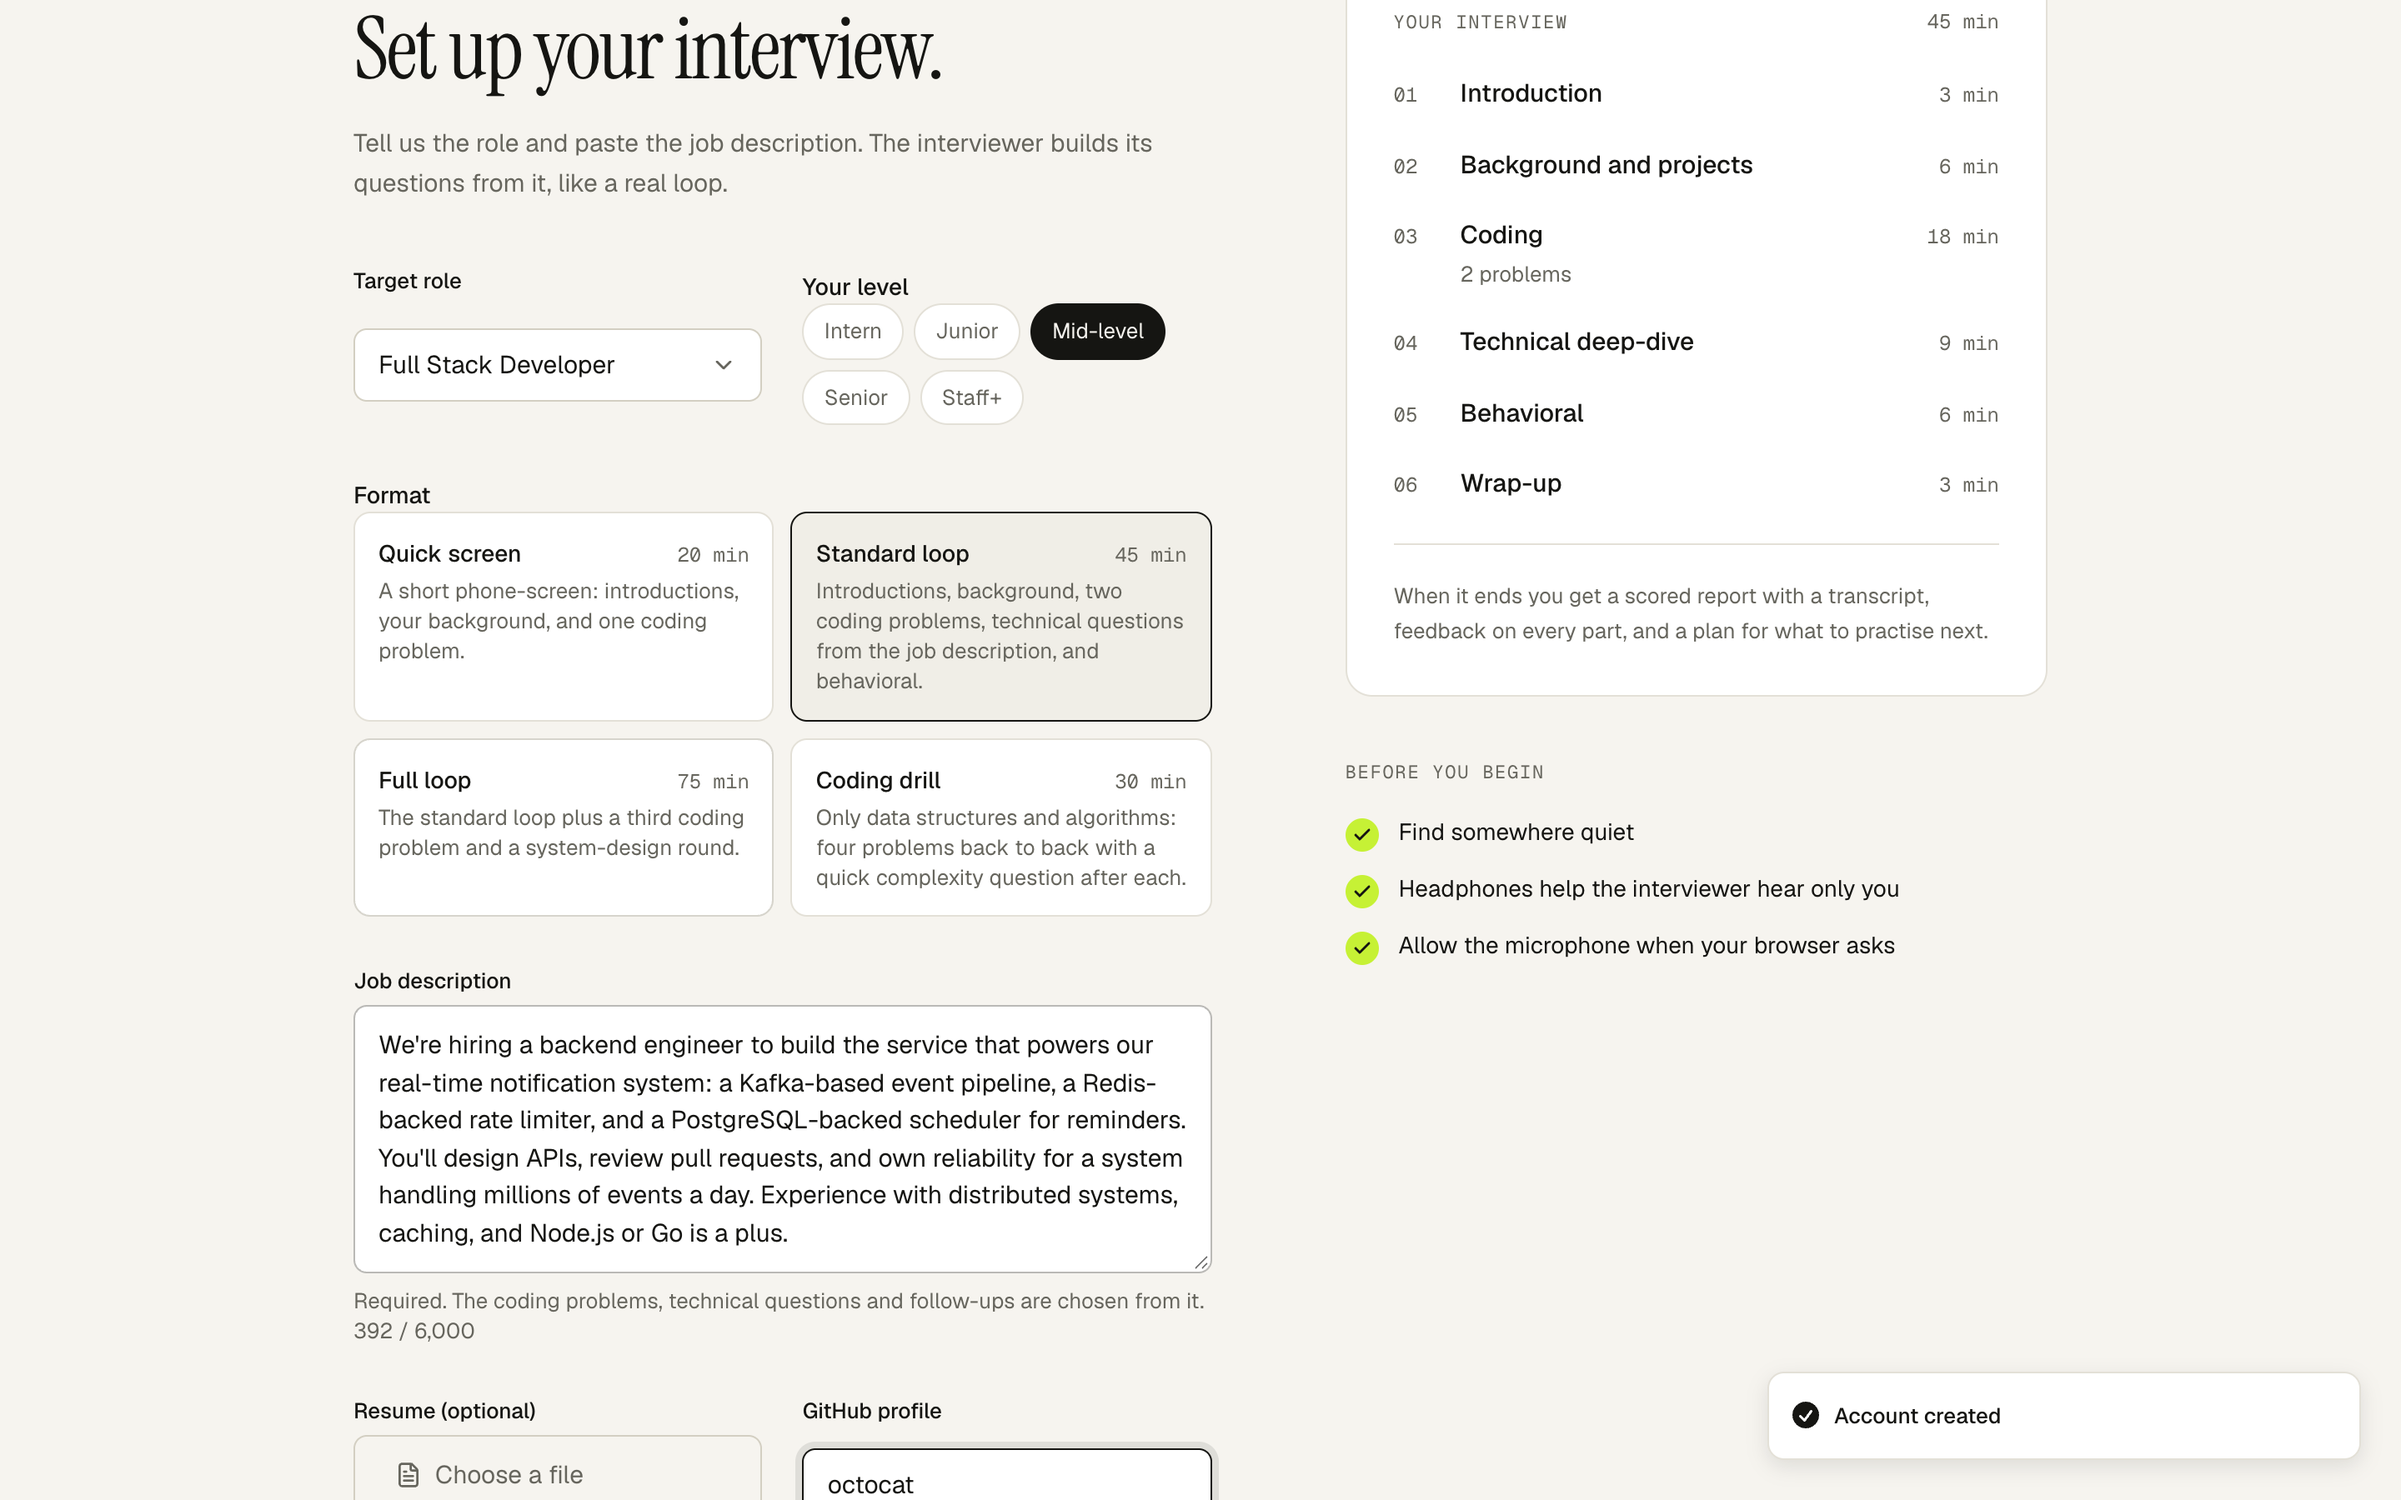
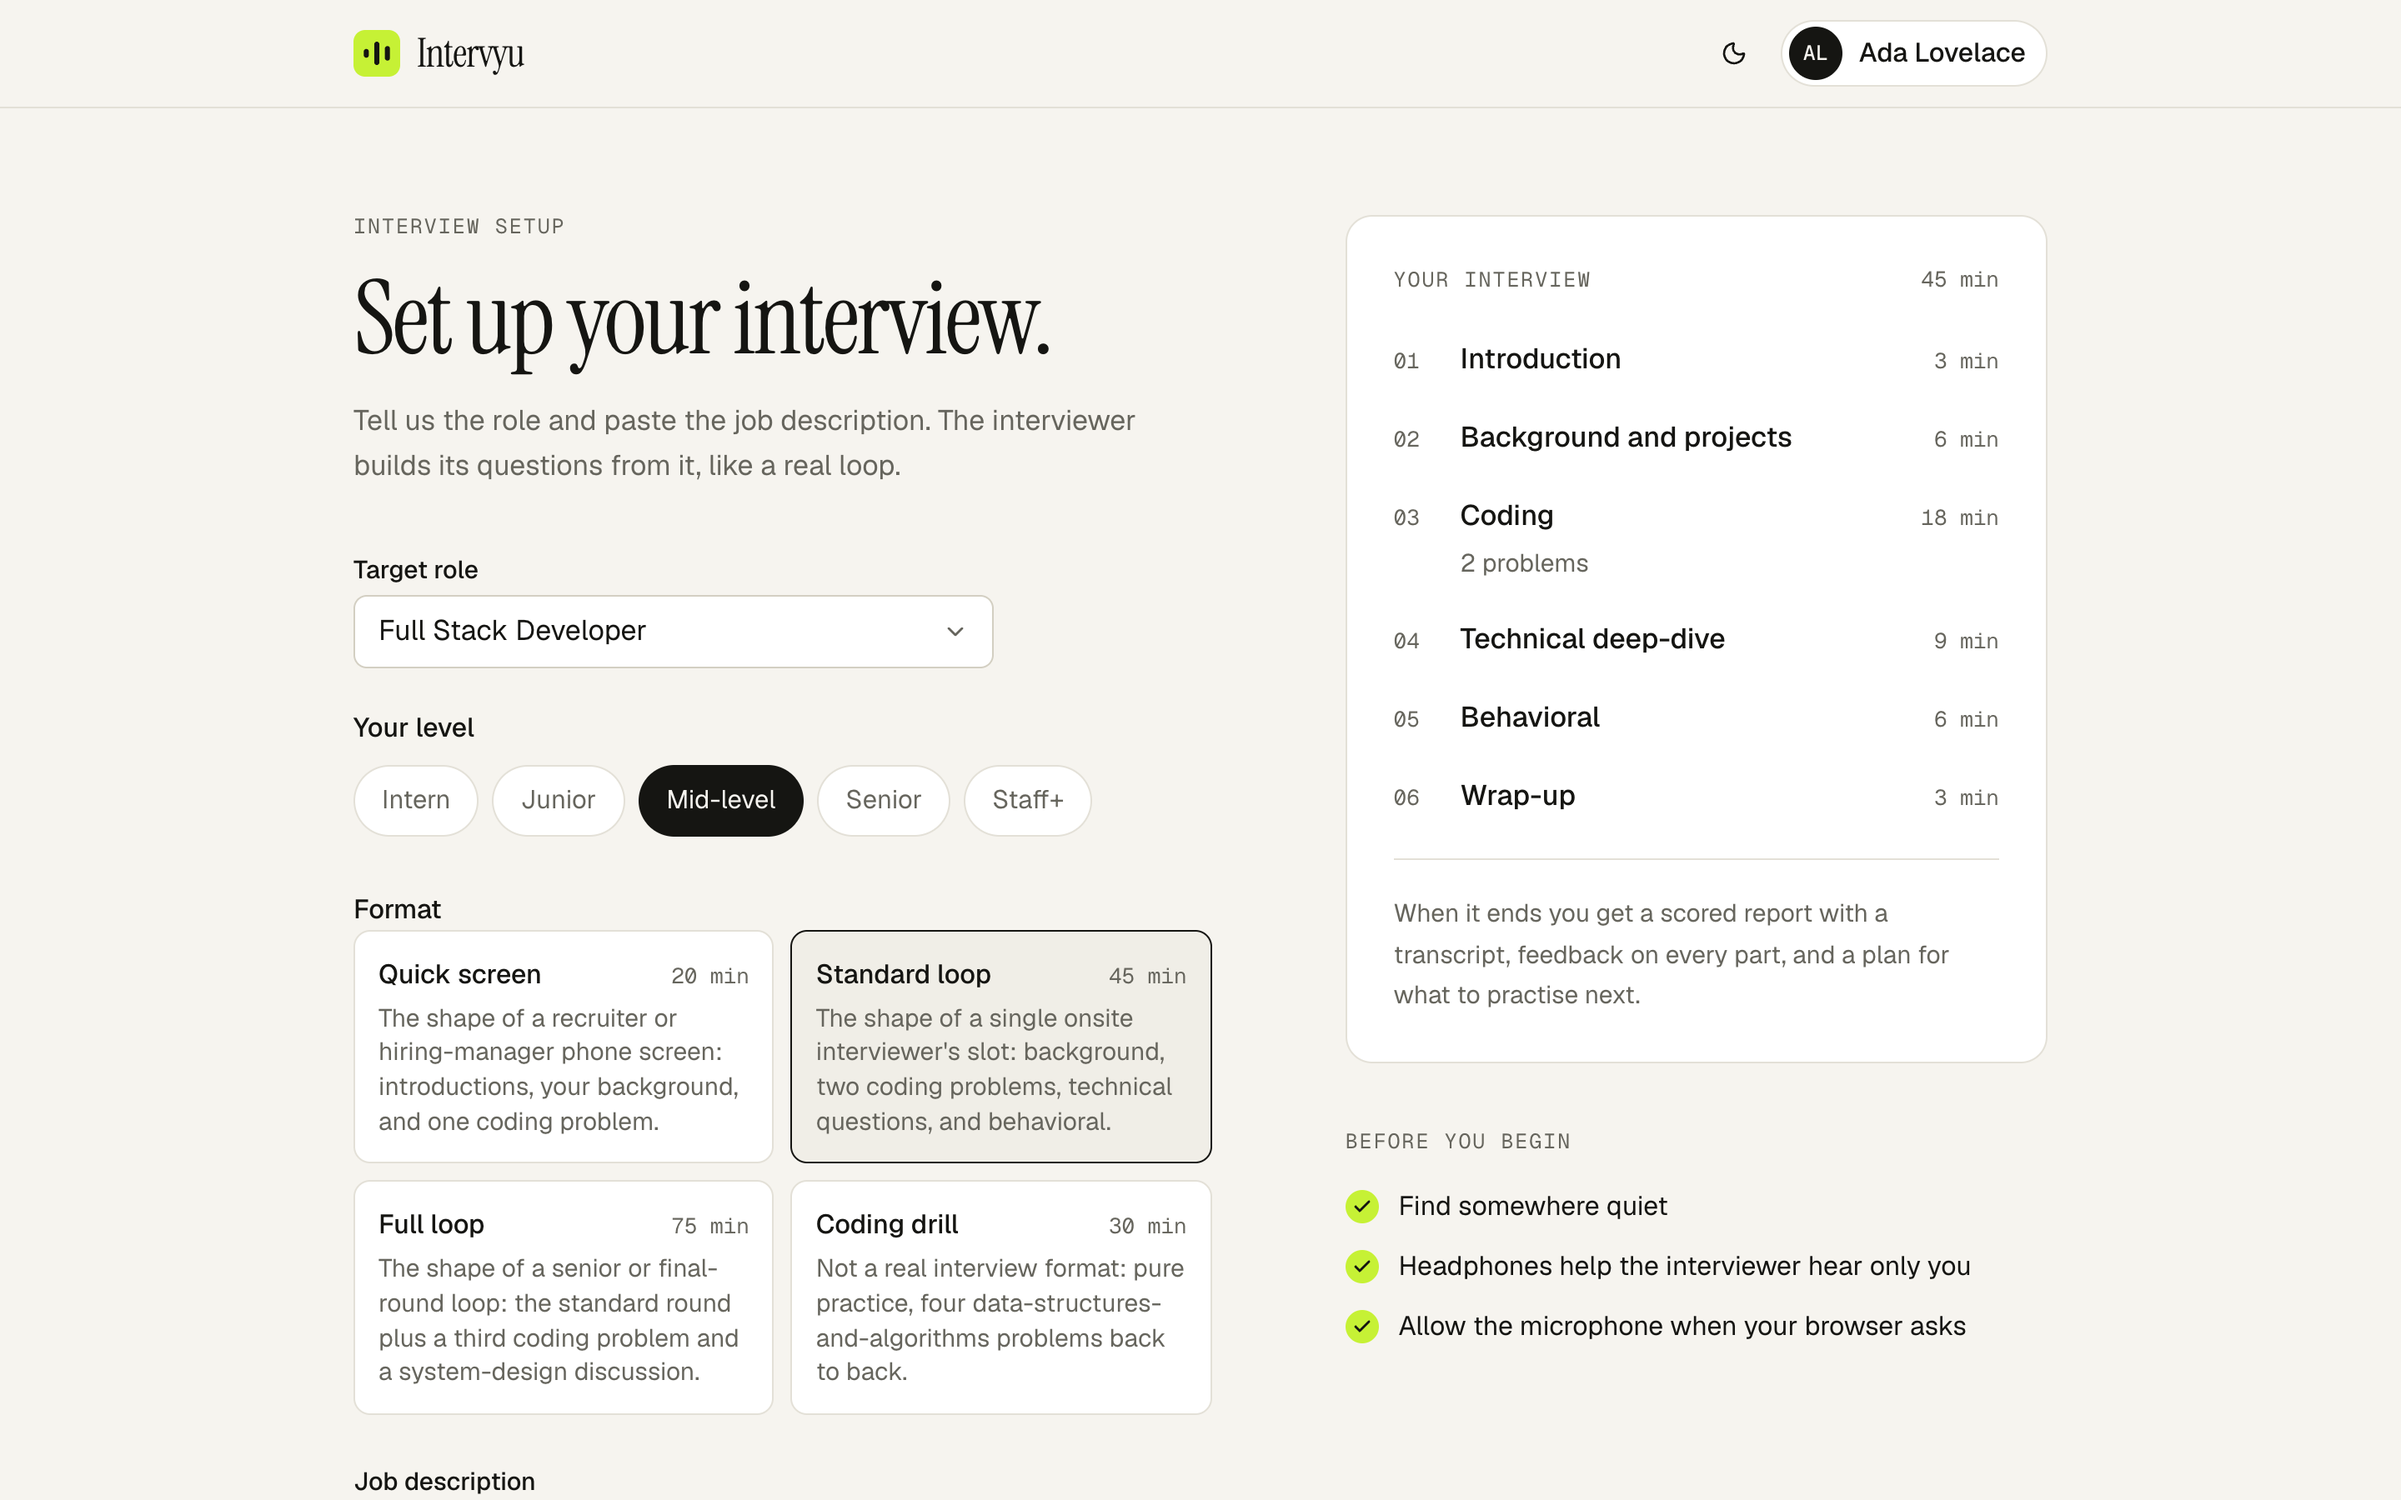
Docs: Intervyu in the README and deployment guide, fresh screenshots

diff --git a/docs/DEPLOYMENT.md b/docs/DEPLOYMENT.md
@@ -1,4 +1,4 @@
-# Deploying AI Interviewer
+# Deploying Intervyu
 
 Three moving parts: a **static website** (Netlify, Cloudflare Pages, nginx), an **API server** (Node, needs Docker and UDP), and **PostgreSQL** (Neon or your own). Two services you rent: a language model (Groq by default) and Deepgram for speech.
 
@@ -19,7 +19,7 @@ The ones you must set:
 | API | `WEBRTC_PUBLIC_IP`, `WEBRTC_PORT_MIN/MAX` | See [WebRTC](#webrtc-and-firewalls) |
 | API | `TRUST_PROXY` | `1` behind nginx or a load balancer, so rate limits see real client IPs |
 | Site | `VITE_BACKEND_URL` | The API's `https://` origin |
-| Site | `VITE_SITE_URL` | The website's public origin. Without it canonicals, the sitemap and link previews point at `ai-interviewer.example.com`. The build warns. |
+| Site | `VITE_SITE_URL` | The website's public origin. Without it canonicals, the sitemap, `llms.txt` and link previews point at `intervyu.example.com`, which search engines will not credit to your site. The build warns. |
 
 ## Database
 

diff --git a/README.md b/README.md
@@ -1,10 +1,10 @@
-# AI Interviewer
+# Intervyu
 
-A technical interview you can practise out loud. An AI interviewer talks with you over voice, asks questions shaped by the job you're preparing for, lets you solve real coding problems in a live editor with hidden tests, and finishes with a scored report.
+AI mock interviews for software engineers. Intervyu's interviewer talks with you over voice, asks questions shaped by the job you're preparing for, lets you solve real coding problems in a live editor with hidden tests and sketch system designs on a whiteboard, and finishes with a scored report and a study plan.
 
 It is practice feedback, not a hiring decision, and the product says so.
 
-<img src="docs/screenshots/landingPage.png" width="820" alt="Landing page: 'A technical interview that actually talks back.'">
+<img src="docs/screenshots/landingPage.png" width="820" alt="Intervyu's landing page: 'Do the interview before the interview.'">
 
 ## A real interview, not a chat window
 
